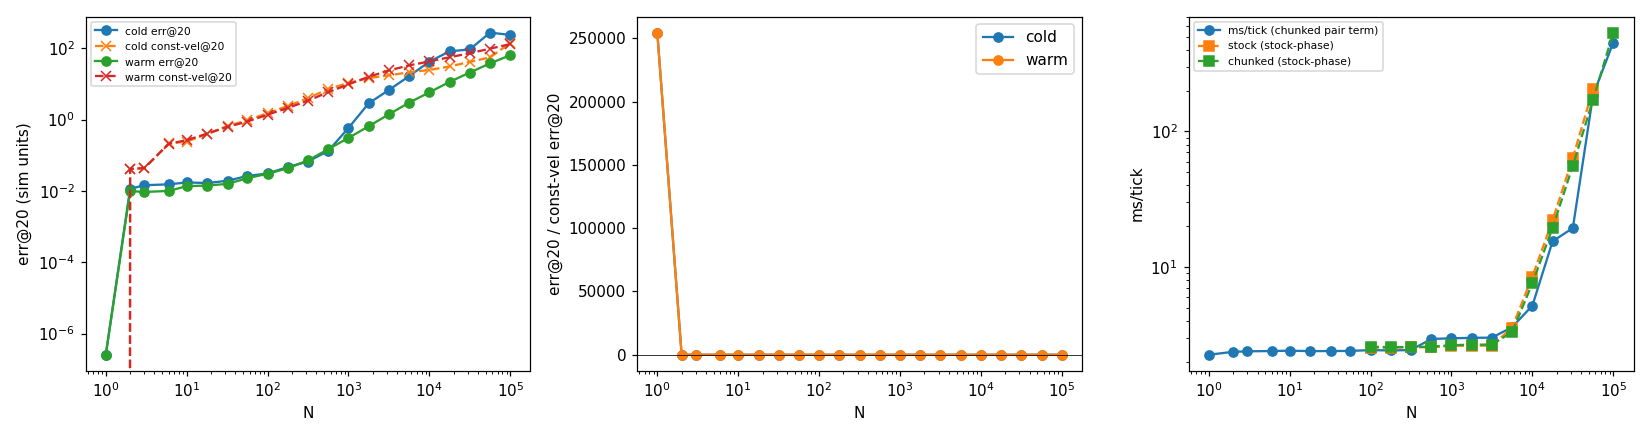
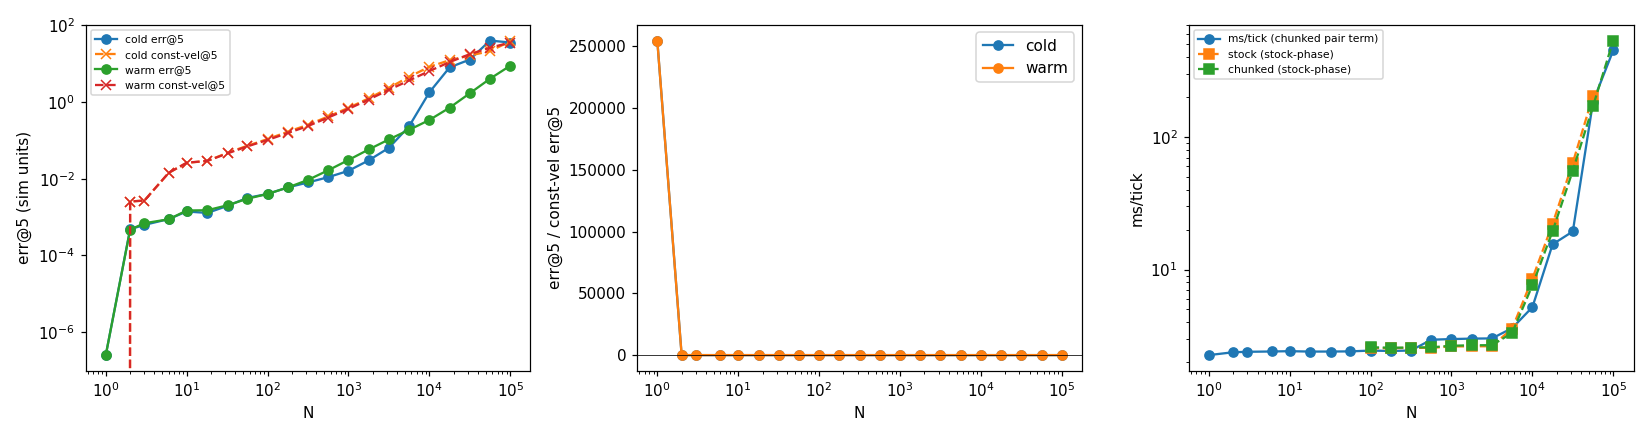
scatter review #4.1/#4.4: zero-shot validity bounds doc; scaling summary headlines err@5 (N=1e5 cold ratio@5 .93 vs err@20 saturated); trainer warmup + loss cap after smoke (job 3361: equivalence OK, eps smoke diverged without them)
Claude-Session: https://claude.ai/code/session_01PWoN5WQPd9nu2ycEN95T7c

diff --git a/scripts/train_scatter_ft.py b/scripts/train_scatter_ft.py
@@ -26,8 +26,8 @@ VAR = "ms_kp_pot_v_g128"
 EPS_SET = (0.1, 0.2, 0.35, 0.5, 1.0, 2.0)
 
 
-def group(name, data, dev, weight, batch, kmax, setup=None):
-    return dict(name=name, t=[t.float() for t in sf.to_tensors(data, dev)], weight=weight, batch=batch, kmax=kmax, setup=setup)
+def group(name, data, dev, weight, batch, kmax, setup=None, cap=True):
+    return dict(name=name, t=[t.float() for t in sf.to_tensors(data, dev)], weight=weight, batch=batch, kmax=kmax, setup=setup, cap=cap)
 
 
 def set_h(grid):
@@ -53,15 +53,15 @@ def build_groups(args, dev, log):
             g.append(dict(first, name=f"base_G{grid}", weight=w, setup=set_h(grid)))
     elif args.fix == "largen":
         g.append(group("base", fd.base(n, s, args.seed, dev), dev, 0.4, args.batch, 99))
-        g.append(group("N1000-2500", fd.large_n(max(24, n // 25), s, args.seed + 7, dev, (1000, 2500)), dev, 0.4, 2, 12))
-        g.append(group("N3000-6000", fd.large_n(max(12, n // 50), s, args.seed + 8, dev, (3000, 6000)), dev, 0.2, 1, 8))
+        g.append(group("N1000-2500", fd.large_n(max(24, n // 25), s, args.seed + 7, dev, (1000, 2500)), dev, 0.4, 2, 12, cap=False))
+        g.append(group("N3000-6000", fd.large_n(max(12, n // 50), s, args.seed + 8, dev, (3000, 6000)), dev, 0.2, 1, 8, cap=False))
     elif args.fix in ("mass", "massnorm"):
         g.append(group("mass0.1-10", fd.mass_spectrum(n, s, args.seed, dev, 0.1, 10.0), dev, 1.0, args.batch, 99))
     elif args.fix == "masswide":
         g.append(group("mass0.01-100", fd.mass_spectrum(n, s, args.seed, dev, 0.01, 100.0), dev, 1.0, args.batch, 99))
     elif args.fix == "eps":
         for e in EPS_SET:
-            g.append(group(f"eps{e}", fd.eps_scenes(max(60, n // len(EPS_SET)), s, args.seed + int(e * 100), dev, e), dev, 1.0, args.batch, 99, set_eps(e)))
+            g.append(group(f"eps{e}", fd.eps_scenes(max(60, n // len(EPS_SET)), s, args.seed + int(e * 100), dev, e), dev, 1.0, args.batch, 10 if e <= 0.2 else 99, set_eps(e)))
     elif args.fix == "dense":
         g.append(group("dense", fd.dense(n, s, args.seed, dev), dev, 1.0, args.batch, 99))
     for x in g:
@@ -97,7 +97,7 @@ def train(model, groups, args, ckpt_path, log):
         P, V, M, mask = grp["t"]
         S, B = P.shape[0], grp["batch"]
         k = min(int(round(args.k_start + (args.k_end - args.k_start) * frac)), grp["kmax"])
-        lr = args.lr * (0.05 + 0.95 * 0.5 * (1 + np.cos(np.pi * frac)))
+        lr = args.lr * (0.05 + 0.95 * 0.5 * (1 + np.cos(np.pi * frac))) * min(1.0, (it - start + 1) / args.warmup)
         for pg in opt.param_groups:
             pg["lr"] = lr
         idx = torch.randint(S, (B,), generator=g).to(args.device)
@@ -118,12 +118,12 @@ def train(model, groups, args, ckpt_path, log):
         opt.zero_grad()
         loss.backward()
         gn = torch.nn.utils.clip_grad_norm_(model.parameters(), 1.0)
-        if torch.isfinite(loss) and torch.isfinite(gn):
+        if torch.isfinite(loss) and torch.isfinite(gn) and (not grp["cap"] or args.loss_cap <= 0 or loss.item() < args.loss_cap):
             opt.step()
         else:
             opt.zero_grad()
             skipped += 1
-            log(f"it {it} non-finite loss/grad, step skipped ({skipped} total)")
+            log(f"it {it} {grp['name']} loss {loss.item():.3g} non-finite or above cap, step skipped ({skipped} total)")
         last.setdefault(grp["name"], []).append(loss.item())
         if it % args.log_every == 0:
             msg = " ".join(f"{k_}:{np.mean(v[-20:]):.5f}" for k_, v in last.items())
@@ -148,6 +148,8 @@ def main():
     ap.add_argument("--k-start", type=int, default=4)
     ap.add_argument("--k-end", type=int, default=20)
     ap.add_argument("--lr", type=float, default=2e-4)
+    ap.add_argument("--warmup", type=int, default=200)
+    ap.add_argument("--loss-cap", type=float, default=3.0)
     ap.add_argument("--time-budget", type=float, default=2400.0)
     ap.add_argument("--log-every", type=int, default=50)
     ap.add_argument("--seed", type=int, default=4738)

diff --git a/scripts/summarize_scatter_scaling.py b/scripts/summarize_scatter_scaling.py
@@ -1,4 +1,5 @@
-"""Markdown tables + plots from results/scatter_scaling_{nsweep,worlds,stock}.json. Usage: python scripts/summarize_scatter_scaling.py [--tag SUFFIX]"""
+"""Markdown tables + plots from results/scatter_scaling_{nsweep,worlds,stock}.json. Usage: python scripts/summarize_scatter_scaling.py [--tag SUFFIX]
+Headline metric is err@5 and err@5/constvel@5 (decision #4.4): err@20 saturates at the box size for N >= ~1e4 (cold) and says nothing at N = 1e5."""
 import argparse
 import json
 
@@ -13,13 +14,13 @@ def row(r):
     t = r.get("timing", {})
     e = r["err"]
     cv = r["constvel"]
-    return (f"| {r['n']} | {r['grid']} | {r['extent']:g} | {r['h']:.3g} | {e['5']:.3g} | {e['10']:.3g} | {e['20']:.3g} | {e['50']:.3g} | {e['100']:.3g} | {e['20'] / max(cv['20'], 1e-12):.2f} | "
+    return (f"| {r['n']} | {r['grid']} | {r['extent']:g} | {r['h']:.3g} | {e['5']:.3g} | {e['10']:.3g} | {e['20']:.3g} | {e['50']:.3g} | {e['100']:.3g} | {e['5'] / max(cv['5'], 1e-12):.2f} | {e['20'] / max(cv['20'], 1e-12):.2f} | "
             f"{r['selfnoise']['20']:.2g} | {r['dE_rel_model']:.3g} ({r['dE_rel_truth']:.2g}) | {r['dP_model']:.2g} | {r['first_nonfinite']} | {r['frac_out_model']:.3f} | "
             f"{t.get('tick_ms', float('nan')):.3g} | {t.get('peak_mem_mb', float('nan')):.0f} |")
 
 
-HEAD = ("| N | G | extent | h | err@5 | @10 | @20 | @50 | @100 | err@20/constvel@20 | self-noise@20 | dE/E (truth) | dP | first nonfinite | frac out | ms/tick | peak MB |\n"
-        "|---|---|---|---|---|---|---|---|---|---|---|---|---|---|---|---|---|")
+HEAD = ("| N | G | extent | h | err@5 | @10 | @20 | @50 | @100 | err@5/constvel@5 | err@20/constvel@20 | self-noise@20 | dE/E (truth) | dP | first nonfinite | frac out | ms/tick | peak MB |\n"
+        "|---|---|---|---|---|---|---|---|---|---|---|---|---|---|---|---|---|---|")
 
 
 def slope(ns, ts):
@@ -39,9 +40,9 @@ def main():
         out.append(f"\n### N sweep, extent 64, G 128, {fam}\n\n{HEAD}")
         out += [row(r) for r in pts if "selfnoise" in r]
         N = np.array([r["n"] for r in pts])
-        ax[0].loglog(N, [r["err"]["20"] for r in pts], "o-", label=f"{fam} err@20")
-        ax[0].loglog(N, [r["constvel"]["20"] for r in pts], "x--", label=f"{fam} const-vel@20")
-        ax[1].semilogx(N, [r["err"]["20"] / max(r["constvel"]["20"], 1e-12) for r in pts], "o-", label=fam)
+        ax[0].loglog(N, [r["err"]["5"] for r in pts], "o-", label=f"{fam} err@5")
+        ax[0].loglog(N, [r["constvel"]["5"] for r in pts], "x--", label=f"{fam} const-vel@5")
+        ax[1].semilogx(N, [r["err"]["5"] / max(r["constvel"]["5"], 1e-12) for r in pts], "o-", label=fam)
         if fam == "cold":
             tt = [(r["n"], r["timing"]["tick_ms"]) for r in pts if "tick_ms" in r.get("timing", {})]
             n_, t_ = zip(*tt)
@@ -49,11 +50,11 @@ def main():
             big = [(a, b) for a, b in tt if a >= 1e4]
             out.append(f"\nlog-log slope of ms/tick vs N: all N {slope(*zip(*tt)):.2f}; N>=1e4 {slope(*zip(*big)):.2f}")
     ax[0].set_xlabel("N")
-    ax[0].set_ylabel("err@20 (sim units)")
+    ax[0].set_ylabel("err@5 (sim units)")
     ax[0].legend(fontsize=7)
     ax[1].axhline(1, color="k", lw=0.5)
     ax[1].set_xlabel("N")
-    ax[1].set_ylabel("err@20 / const-vel err@20")
+    ax[1].set_ylabel("err@5 / const-vel err@5")
     ax[1].legend()
     ax[2].set_xlabel("N")
     ax[2].set_ylabel("ms/tick")

diff --git a/results/scatter_scaling_tables_cell.md b/results/scatter_scaling_tables_cell.md
@@ -1,57 +1,57 @@
 
 ### N sweep, extent 64, G 128, cold
 
-| N | G | extent | h | err@5 | @10 | @20 | @50 | @100 | err@20/constvel@20 | self-noise@20 | dE/E (truth) | dP | first nonfinite | frac out | ms/tick | peak MB |
-|---|---|---|---|---|---|---|---|---|---|---|---|---|---|---|---|---|
-| 1 | 128 | 64 | 0.5 | 2.55e-07 | 2.55e-07 | 2.55e-07 | 2.55e-07 | 2.55e-07 | 254639.51 | 0 | 0 (0) | 0 | None | 0.000 | 2.26 | 33 |
-| 2 | 128 | 64 | 0.5 | 0.000483 | 0.00239 | 0.0114 | 0.0683 | 0.22 | 0.27 | 0 | 0.0291 (8.7e-05) | 1.4e-09 | None | 0.000 | 2.38 | 33 |
-| 3 | 128 | 64 | 0.5 | 0.000626 | 0.00314 | 0.0145 | 0.0724 | 0.259 | 0.33 | 0 | 0.0214 (1.9e-05) | 7.7e-08 | None | 0.000 | 2.4 | 33 |
-| 6 | 128 | 64 | 0.5 | 0.000887 | 0.004 | 0.0153 | 0.0834 | 0.358 | 0.07 | 0 | 0.027 (0.00027) | 2.2e-07 | None | 0.000 | 2.41 | 33 |
-| 10 | 128 | 64 | 0.5 | 0.0014 | 0.00451 | 0.0173 | 0.0781 | 0.331 | 0.07 | 0 | 0.0161 (8.9e-05) | 4e-07 | None | 0.000 | 2.42 | 33 |
-| 18 | 128 | 64 | 0.5 | 0.00128 | 0.00495 | 0.0167 | 0.103 | 0.676 | 0.04 | 3.1e-06 | 0.0168 (0.00011) | 1.1e-06 | None | 0.000 | 2.41 | 33 |
-| 32 | 128 | 64 | 0.5 | 0.00196 | 0.00608 | 0.0193 | 0.136 | 1.11 | 0.03 | 4.8e-06 | 0.0178 (9.6e-05) | 1.8e-06 | None | 0.000 | 2.41 | 33 |
-| 56 | 128 | 64 | 0.5 | 0.00315 | 0.00871 | 0.0263 | 0.194 | 1.74 | 0.03 | 2.3e-05 | 0.0143 (0.00013) | 4.1e-06 | None | 0.000 | 2.41 | 33 |
-| 100 | 128 | 64 | 0.5 | 0.004 | 0.0108 | 0.0309 | 0.296 | 3.25 | 0.02 | 4.9e-05 | 0.0113 (0.00013) | 7.6e-06 | None | 0.000 | 2.45 | 33 |
-| 178 | 128 | 64 | 0.5 | 0.00593 | 0.0156 | 0.0468 | 0.605 | 4.36 | 0.02 | 0.00011 | 0.0142 (0.00015) | 1.8e-05 | None | 0.002 | 2.43 | 33 |
-| 316 | 128 | 64 | 0.5 | 0.00797 | 0.0204 | 0.0669 | 1.2 | 5.46 | 0.02 | 0.00015 | 0.0189 (0.00036) | 3.9e-05 | None | 0.032 | 2.45 | 34 |
-| 562 | 128 | 64 | 0.5 | 0.0109 | 0.0286 | 0.132 | 2.46 | 7.6 | 0.02 | 0.00066 | 0.0319 (0.0007) | 0.00012 | None | 0.068 | 2.96 | 34 |
-| 1000 | 128 | 64 | 0.5 | 0.016 | 0.0464 | 0.583 | 5.08 | 13 | 0.05 | 0.0056 | 0.13 (0.0012) | 0.00031 | None | 0.081 | 2.99 | 59 |
-| 1778 | 128 | 64 | 0.5 | 0.03 | 0.169 | 2.87 | 12.1 | 29.2 | 0.20 | 0.03 | 0.524 (0.0018) | 0.00077 | None | 0.149 | 3.01 | 155 |
-| 3162 | 128 | 64 | 0.5 | 0.0636 | 1.41 | 6.8 | 24.4 | 58.6 | 0.39 | 0.093 | 1.1 (0.0075) | 0.0018 | None | 0.241 | 3.02 | 363 |
-| 5623 | 128 | 64 | 0.5 | 0.232 | 4.91 | 16.6 | 58.7 | 139 | 0.78 | 0.48 | 1.94 (0.024) | 0.0045 | None | 0.432 | 3.61 | 1081 |
-| 10000 | 128 | 64 | 0.5 | 1.77 | 14.5 | 42.3 | 140 | 310 | 1.71 | 3.3 | 3.03 (0.062) | 0.024 | None | 0.699 | 5.2 | 1478 |
-| 17783 | 128 | 64 | 0.5 | 7.91 | 31.1 | 82.5 | 249 | 532 | 2.66 | 9.8 | 3.82 (0.25) | 0.06 | None | 0.865 | 15.5 | 1483 |
-| 31623 | 128 | 64 | 0.5 | 12.7 | 36.9 | 93.1 | 278 | 599 | 2.23 | 32 | 3.45 (0.61) | 0.12 | None | 0.779 | 19.4 | 1486 |
-| 56234 | 128 | 64 | 0.5 | 39.5 | 118 | 276 | 750 | 1.54e+03 | 4.96 | 21 | 7.36 (0.78) | 0.78 | None | 0.998 | 185 | 1484 |
-| 100000 | 128 | 64 | 0.5 | 35.1 | 99.6 | 238 | 661 | 1.37e+03 | 1.68 | 1.1e+02 | 4.49 (1.5) | 0.7 | None | 0.896 | 452 | 1493 |
+| N | G | extent | h | err@5 | @10 | @20 | @50 | @100 | err@5/constvel@5 | err@20/constvel@20 | self-noise@20 | dE/E (truth) | dP | first nonfinite | frac out | ms/tick | peak MB |
+|---|---|---|---|---|---|---|---|---|---|---|---|---|---|---|---|---|---|
+| 1 | 128 | 64 | 0.5 | 2.55e-07 | 2.55e-07 | 2.55e-07 | 2.55e-07 | 2.55e-07 | 254639.51 | 254639.51 | 0 | 0 (0) | 0 | None | 0.000 | 2.26 | 33 |
+| 2 | 128 | 64 | 0.5 | 0.000483 | 0.00239 | 0.0114 | 0.0683 | 0.22 | 0.19 | 0.27 | 0 | 0.0291 (8.7e-05) | 1.4e-09 | None | 0.000 | 2.38 | 33 |
+| 3 | 128 | 64 | 0.5 | 0.000626 | 0.00314 | 0.0145 | 0.0724 | 0.259 | 0.23 | 0.33 | 0 | 0.0214 (1.9e-05) | 7.7e-08 | None | 0.000 | 2.4 | 33 |
+| 6 | 128 | 64 | 0.5 | 0.000887 | 0.004 | 0.0153 | 0.0834 | 0.358 | 0.06 | 0.07 | 0 | 0.027 (0.00027) | 2.2e-07 | None | 0.000 | 2.41 | 33 |
+| 10 | 128 | 64 | 0.5 | 0.0014 | 0.00451 | 0.0173 | 0.0781 | 0.331 | 0.05 | 0.07 | 0 | 0.0161 (8.9e-05) | 4e-07 | None | 0.000 | 2.42 | 33 |
+| 18 | 128 | 64 | 0.5 | 0.00128 | 0.00495 | 0.0167 | 0.103 | 0.676 | 0.04 | 0.04 | 3.1e-06 | 0.0168 (0.00011) | 1.1e-06 | None | 0.000 | 2.41 | 33 |
+| 32 | 128 | 64 | 0.5 | 0.00196 | 0.00608 | 0.0193 | 0.136 | 1.11 | 0.04 | 0.03 | 4.8e-06 | 0.0178 (9.6e-05) | 1.8e-06 | None | 0.000 | 2.41 | 33 |
+| 56 | 128 | 64 | 0.5 | 0.00315 | 0.00871 | 0.0263 | 0.194 | 1.74 | 0.04 | 0.03 | 2.3e-05 | 0.0143 (0.00013) | 4.1e-06 | None | 0.000 | 2.41 | 33 |
+| 100 | 128 | 64 | 0.5 | 0.004 | 0.0108 | 0.0309 | 0.296 | 3.25 | 0.04 | 0.02 | 4.9e-05 | 0.0113 (0.00013) | 7.6e-06 | None | 0.000 | 2.45 | 33 |
+| 178 | 128 | 64 | 0.5 | 0.00593 | 0.0156 | 0.0468 | 0.605 | 4.36 | 0.04 | 0.02 | 0.00011 | 0.0142 (0.00015) | 1.8e-05 | None | 0.002 | 2.43 | 33 |
+| 316 | 128 | 64 | 0.5 | 0.00797 | 0.0204 | 0.0669 | 1.2 | 5.46 | 0.03 | 0.02 | 0.00015 | 0.0189 (0.00036) | 3.9e-05 | None | 0.032 | 2.45 | 34 |
+| 562 | 128 | 64 | 0.5 | 0.0109 | 0.0286 | 0.132 | 2.46 | 7.6 | 0.03 | 0.02 | 0.00066 | 0.0319 (0.0007) | 0.00012 | None | 0.068 | 2.96 | 34 |
+| 1000 | 128 | 64 | 0.5 | 0.016 | 0.0464 | 0.583 | 5.08 | 13 | 0.02 | 0.05 | 0.0056 | 0.13 (0.0012) | 0.00031 | None | 0.081 | 2.99 | 59 |
+| 1778 | 128 | 64 | 0.5 | 0.03 | 0.169 | 2.87 | 12.1 | 29.2 | 0.02 | 0.20 | 0.03 | 0.524 (0.0018) | 0.00077 | None | 0.149 | 3.01 | 155 |
+| 3162 | 128 | 64 | 0.5 | 0.0636 | 1.41 | 6.8 | 24.4 | 58.6 | 0.03 | 0.39 | 0.093 | 1.1 (0.0075) | 0.0018 | None | 0.241 | 3.02 | 363 |
+| 5623 | 128 | 64 | 0.5 | 0.232 | 4.91 | 16.6 | 58.7 | 139 | 0.05 | 0.78 | 0.48 | 1.94 (0.024) | 0.0045 | None | 0.432 | 3.61 | 1081 |
+| 10000 | 128 | 64 | 0.5 | 1.77 | 14.5 | 42.3 | 140 | 310 | 0.22 | 1.71 | 3.3 | 3.03 (0.062) | 0.024 | None | 0.699 | 5.2 | 1478 |
+| 17783 | 128 | 64 | 0.5 | 7.91 | 31.1 | 82.5 | 249 | 532 | 0.65 | 2.66 | 9.8 | 3.82 (0.25) | 0.06 | None | 0.865 | 15.5 | 1483 |
+| 31623 | 128 | 64 | 0.5 | 12.7 | 36.9 | 93.1 | 278 | 599 | 0.78 | 2.23 | 32 | 3.45 (0.61) | 0.12 | None | 0.779 | 19.4 | 1486 |
+| 56234 | 128 | 64 | 0.5 | 39.5 | 118 | 276 | 750 | 1.54e+03 | 1.89 | 4.96 | 21 | 7.36 (0.78) | 0.78 | None | 0.998 | 185 | 1484 |
+| 100000 | 128 | 64 | 0.5 | 35.1 | 99.6 | 238 | 661 | 1.37e+03 | 0.93 | 1.68 | 1.1e+02 | 4.49 (1.5) | 0.7 | None | 0.896 | 452 | 1493 |
 
 log-log slope of ms/tick vs N: all N 0.30; N>=1e4 1.98
 
 ### N sweep, extent 64, G 128, warm
 
-| N | G | extent | h | err@5 | @10 | @20 | @50 | @100 | err@20/constvel@20 | self-noise@20 | dE/E (truth) | dP | first nonfinite | frac out | ms/tick | peak MB |
-|---|---|---|---|---|---|---|---|---|---|---|---|---|---|---|---|---|
-| 1 | 128 | 64 | 0.5 | 2.55e-07 | 2.55e-07 | 2.55e-07 | 2.55e-07 | 2.55e-07 | 254639.51 | 0 | 0 (0) | 0 | None | 0.000 | 2.25 | 33 |
-| 2 | 128 | 64 | 0.5 | 0.000471 | 0.00257 | 0.00994 | 0.0469 | 0.154 | 0.24 | 0 | 0.0772 (5.9e-05) | 1.7e-09 | None | 0.000 | 2.38 | 33 |
-| 3 | 128 | 64 | 0.5 | 0.000693 | 0.00299 | 0.00935 | 0.0397 | 0.134 | 0.21 | 0 | 0.0484 (1.4e-05) | 1.4e-07 | None | 0.000 | 2.38 | 33 |
-| 6 | 128 | 64 | 0.5 | 0.000877 | 0.00318 | 0.01 | 0.0499 | 0.235 | 0.05 | 0 | 0.0766 (2.8e-05) | 3.6e-07 | None | 0.000 | 2.4 | 33 |
-| 10 | 128 | 64 | 0.5 | 0.00148 | 0.00448 | 0.0136 | 0.0654 | 0.281 | 0.05 | 0 | 0.133 (6.5e-05) | 6.4e-07 | None | 0.000 | 2.39 | 33 |
-| 18 | 128 | 64 | 0.5 | 0.00151 | 0.00436 | 0.0142 | 0.0833 | 0.474 | 0.03 | 0 | 0.0868 (7.6e-05) | 1.1e-06 | None | 0.000 | 2.41 | 33 |
-| 32 | 128 | 64 | 0.5 | 0.00203 | 0.00543 | 0.0158 | 0.0882 | 0.612 | 0.03 | 1.7e-06 | 0.0294 (5e-05) | 2.1e-06 | None | 0.000 | 2.4 | 33 |
-| 56 | 128 | 64 | 0.5 | 0.003 | 0.00757 | 0.0227 | 0.153 | 1.09 | 0.03 | 7.3e-06 | 0.0329 (7.9e-05) | 3.4e-06 | None | 0.017 | 2.39 | 33 |
-| 100 | 128 | 64 | 0.5 | 0.00401 | 0.0104 | 0.0303 | 0.197 | 1.82 | 0.02 | 2.2e-05 | 0.00761 (5.6e-05) | 6.7e-06 | None | 0.041 | 2.44 | 33 |
-| 178 | 128 | 64 | 0.5 | 0.0059 | 0.015 | 0.0432 | 0.328 | 2.7 | 0.02 | 8.6e-05 | 0.0194 (4.4e-05) | 8e-06 | None | 0.074 | 2.43 | 33 |
-| 316 | 128 | 64 | 0.5 | 0.00929 | 0.0239 | 0.0718 | 0.6 | 4.02 | 0.02 | 0.00013 | 0.0561 (4.9e-05) | 1.6e-05 | None | 0.105 | 2.44 | 34 |
-| 562 | 128 | 64 | 0.5 | 0.0165 | 0.0449 | 0.148 | 1.41 | 7.05 | 0.03 | 0.00021 | 0.165 (9.5e-05) | 3.6e-05 | None | 0.108 | 2.92 | 34 |
-| 1000 | 128 | 64 | 0.5 | 0.0307 | 0.087 | 0.307 | 2.87 | 11.6 | 0.03 | 0.00035 | 0.233 (0.00019) | 9.3e-05 | None | 0.097 | 2.94 | 35 |
-| 1778 | 128 | 64 | 0.5 | 0.0576 | 0.167 | 0.652 | 5.66 | 18.8 | 0.04 | 0.0013 | 0.331 (0.00028) | 0.00025 | None | 0.095 | 2.95 | 41 |
-| 3162 | 128 | 64 | 0.5 | 0.105 | 0.325 | 1.41 | 10.3 | 27.3 | 0.06 | 0.017 | 0.461 (0.00059) | 0.001 | None | 0.102 | 2.94 | 92 |
-| 5623 | 128 | 64 | 0.5 | 0.187 | 0.642 | 2.99 | 17.5 | 39.4 | 0.09 | 0.086 | 0.681 (0.0018) | 0.0027 | None | 0.111 | 3.07 | 261 |
-| 10000 | 128 | 64 | 0.5 | 0.338 | 1.3 | 5.83 | 27.1 | 59.9 | 0.14 | 0.3 | 1.08 (0.0043) | 0.0092 | None | 0.126 | 3.57 | 666 |
-| 17783 | 128 | 64 | 0.5 | 0.705 | 2.92 | 11.4 | 43.6 | 97.4 | 0.20 | 1.4 | 1.74 (0.0096) | 0.022 | None | 0.147 | 6.27 | 1236 |
-| 31623 | 128 | 64 | 0.5 | 1.67 | 6.2 | 20.9 | 68.9 | 159 | 0.29 | 4.1 | 2.81 (0.015) | 0.037 | None | 0.176 | 14.3 | 1488 |
-| 56234 | 128 | 64 | 0.5 | 4.01 | 13.4 | 37.9 | 120 | 304 | 0.39 | 10 | 5.69 (0.022) | 0.033 | None | 0.257 | 33.8 | 1490 |
-| 100000 | 128 | 64 | 0.5 | 8.76 | 25.8 | 64.2 | 233 | 629 | 0.49 | 29 | 10.4 (0.028) | 0.77 | None | 0.391 | 94.5 | 1496 |
+| N | G | extent | h | err@5 | @10 | @20 | @50 | @100 | err@5/constvel@5 | err@20/constvel@20 | self-noise@20 | dE/E (truth) | dP | first nonfinite | frac out | ms/tick | peak MB |
+|---|---|---|---|---|---|---|---|---|---|---|---|---|---|---|---|---|---|
+| 1 | 128 | 64 | 0.5 | 2.55e-07 | 2.55e-07 | 2.55e-07 | 2.55e-07 | 2.55e-07 | 254639.51 | 254639.51 | 0 | 0 (0) | 0 | None | 0.000 | 2.25 | 33 |
+| 2 | 128 | 64 | 0.5 | 0.000471 | 0.00257 | 0.00994 | 0.0469 | 0.154 | 0.18 | 0.24 | 0 | 0.0772 (5.9e-05) | 1.7e-09 | None | 0.000 | 2.38 | 33 |
+| 3 | 128 | 64 | 0.5 | 0.000693 | 0.00299 | 0.00935 | 0.0397 | 0.134 | 0.26 | 0.21 | 0 | 0.0484 (1.4e-05) | 1.4e-07 | None | 0.000 | 2.38 | 33 |
+| 6 | 128 | 64 | 0.5 | 0.000877 | 0.00318 | 0.01 | 0.0499 | 0.235 | 0.06 | 0.05 | 0 | 0.0766 (2.8e-05) | 3.6e-07 | None | 0.000 | 2.4 | 33 |
+| 10 | 128 | 64 | 0.5 | 0.00148 | 0.00448 | 0.0136 | 0.0654 | 0.281 | 0.06 | 0.05 | 0 | 0.133 (6.5e-05) | 6.4e-07 | None | 0.000 | 2.39 | 33 |
+| 18 | 128 | 64 | 0.5 | 0.00151 | 0.00436 | 0.0142 | 0.0833 | 0.474 | 0.05 | 0.03 | 0 | 0.0868 (7.6e-05) | 1.1e-06 | None | 0.000 | 2.41 | 33 |
+| 32 | 128 | 64 | 0.5 | 0.00203 | 0.00543 | 0.0158 | 0.0882 | 0.612 | 0.04 | 0.03 | 1.7e-06 | 0.0294 (5e-05) | 2.1e-06 | None | 0.000 | 2.4 | 33 |
+| 56 | 128 | 64 | 0.5 | 0.003 | 0.00757 | 0.0227 | 0.153 | 1.09 | 0.04 | 0.03 | 7.3e-06 | 0.0329 (7.9e-05) | 3.4e-06 | None | 0.017 | 2.39 | 33 |
+| 100 | 128 | 64 | 0.5 | 0.00401 | 0.0104 | 0.0303 | 0.197 | 1.82 | 0.04 | 0.02 | 2.2e-05 | 0.00761 (5.6e-05) | 6.7e-06 | None | 0.041 | 2.44 | 33 |
+| 178 | 128 | 64 | 0.5 | 0.0059 | 0.015 | 0.0432 | 0.328 | 2.7 | 0.04 | 0.02 | 8.6e-05 | 0.0194 (4.4e-05) | 8e-06 | None | 0.074 | 2.43 | 33 |
+| 316 | 128 | 64 | 0.5 | 0.00929 | 0.0239 | 0.0718 | 0.6 | 4.02 | 0.04 | 0.02 | 0.00013 | 0.0561 (4.9e-05) | 1.6e-05 | None | 0.105 | 2.44 | 34 |
+| 562 | 128 | 64 | 0.5 | 0.0165 | 0.0449 | 0.148 | 1.41 | 7.05 | 0.04 | 0.03 | 0.00021 | 0.165 (9.5e-05) | 3.6e-05 | None | 0.108 | 2.92 | 34 |
+| 1000 | 128 | 64 | 0.5 | 0.0307 | 0.087 | 0.307 | 2.87 | 11.6 | 0.05 | 0.03 | 0.00035 | 0.233 (0.00019) | 9.3e-05 | None | 0.097 | 2.94 | 35 |
+| 1778 | 128 | 64 | 0.5 | 0.0576 | 0.167 | 0.652 | 5.66 | 18.8 | 0.05 | 0.04 | 0.0013 | 0.331 (0.00028) | 0.00025 | None | 0.095 | 2.95 | 41 |
+| 3162 | 128 | 64 | 0.5 | 0.105 | 0.325 | 1.41 | 10.3 | 27.3 | 0.05 | 0.06 | 0.017 | 0.461 (0.00059) | 0.001 | None | 0.102 | 2.94 | 92 |
+| 5623 | 128 | 64 | 0.5 | 0.187 | 0.642 | 2.99 | 17.5 | 39.4 | 0.05 | 0.09 | 0.086 | 0.681 (0.0018) | 0.0027 | None | 0.111 | 3.07 | 261 |
+| 10000 | 128 | 64 | 0.5 | 0.338 | 1.3 | 5.83 | 27.1 | 59.9 | 0.05 | 0.14 | 0.3 | 1.08 (0.0043) | 0.0092 | None | 0.126 | 3.57 | 666 |
+| 17783 | 128 | 64 | 0.5 | 0.705 | 2.92 | 11.4 | 43.6 | 97.4 | 0.06 | 0.20 | 1.4 | 1.74 (0.0096) | 0.022 | None | 0.147 | 6.27 | 1236 |
+| 31623 | 128 | 64 | 0.5 | 1.67 | 6.2 | 20.9 | 68.9 | 159 | 0.10 | 0.29 | 4.1 | 2.81 (0.015) | 0.037 | None | 0.176 | 14.3 | 1488 |
+| 56234 | 128 | 64 | 0.5 | 4.01 | 13.4 | 37.9 | 120 | 304 | 0.16 | 0.39 | 10 | 5.69 (0.022) | 0.033 | None | 0.257 | 33.8 | 1490 |
+| 100000 | 128 | 64 | 0.5 | 8.76 | 25.8 | 64.2 | 233 | 629 | 0.25 | 0.49 | 29 | 10.4 (0.028) | 0.77 | None | 0.391 | 94.5 | 1496 |
 
 ### Stock vs chunked pair term (B=1, clipped-gaussian cold scene, ticks 20/5)
 
@@ -73,55 +73,55 @@ log-log slope of ms/tick vs N: all N 0.30; N>=1e4 1.98
 
 ### R: resolution only (N 300, scene fixed, extent 64)
 
-| N | G | extent | h | err@5 | @10 | @20 | @50 | @100 | err@20/constvel@20 | self-noise@20 | dE/E (truth) | dP | first nonfinite | frac out | ms/tick | peak MB |
-|---|---|---|---|---|---|---|---|---|---|---|---|---|---|---|---|---|
-| 300 | 32 | 64 | 2 | 0.128 | 0.513 | 1.79 | 4.88 | 8.52 | 0.46 | 6.4e-06 | 0.319 (0.00042) | 1.9e-05 | None | 0.001 | 2.46 | 4 |
-| 300 | 64 | 64 | 1 | 0.0929 | 0.362 | 1.12 | 3.67 | 7.49 | 0.29 | 1.2e-05 | 0.179 (0.00042) | 2.4e-05 | None | 0.016 | 2.47 | 9 |
-| 300 | 128 | 64 | 0.5 | 0.00756 | 0.0197 | 0.0633 | 1.17 | 5.28 | 0.02 | 0.00014 | 0.0205 (0.00042) | 2.7e-05 | None | 0.033 | 2.47 | 34 |
-| 300 | 256 | 64 | 0.25 | 0.227 | 0.568 | 1.93 | 11.8 | 44 | 0.50 | 0.008 | 2.86 (0.00042) | 5.3e-05 | None | 0.829 | 2.47 | 133 |
-| 300 | 512 | 64 | 0.125 | 0.858 | 2.85 | 7.9 | 28.8 | 76.9 | 2.04 | 0 | 52 (0.00042) | 0.00013 | None | 0.548 | 3.4 | 529 |
+| N | G | extent | h | err@5 | @10 | @20 | @50 | @100 | err@5/constvel@5 | err@20/constvel@20 | self-noise@20 | dE/E (truth) | dP | first nonfinite | frac out | ms/tick | peak MB |
+|---|---|---|---|---|---|---|---|---|---|---|---|---|---|---|---|---|---|
+| 300 | 32 | 64 | 2 | 0.128 | 0.513 | 1.79 | 4.88 | 8.52 | 0.52 | 0.46 | 6.4e-06 | 0.319 (0.00042) | 1.9e-05 | None | 0.001 | 2.46 | 4 |
+| 300 | 64 | 64 | 1 | 0.0929 | 0.362 | 1.12 | 3.67 | 7.49 | 0.38 | 0.29 | 1.2e-05 | 0.179 (0.00042) | 2.4e-05 | None | 0.016 | 2.47 | 9 |
+| 300 | 128 | 64 | 0.5 | 0.00756 | 0.0197 | 0.0633 | 1.17 | 5.28 | 0.03 | 0.02 | 0.00014 | 0.0205 (0.00042) | 2.7e-05 | None | 0.033 | 2.47 | 34 |
+| 300 | 256 | 64 | 0.25 | 0.227 | 0.568 | 1.93 | 11.8 | 44 | 0.93 | 0.50 | 0.008 | 2.86 (0.00042) | 5.3e-05 | None | 0.829 | 2.47 | 133 |
+| 300 | 512 | 64 | 0.125 | 0.858 | 2.85 | 7.9 | 28.8 | 76.9 | 3.50 | 2.04 | 0 | 52 (0.00042) | 0.00013 | None | 0.548 | 3.4 | 529 |
 
 ### D: domain only (h 0.5, scene fixed, N 300)
 
-| N | G | extent | h | err@5 | @10 | @20 | @50 | @100 | err@20/constvel@20 | self-noise@20 | dE/E (truth) | dP | first nonfinite | frac out | ms/tick | peak MB |
-|---|---|---|---|---|---|---|---|---|---|---|---|---|---|---|---|---|
-| 300 | 64 | 32 | 0.5 | 0.0271 | 0.0834 | 0.287 | 2.59 | 8.67 | 0.07 | 4.4e-05 | 0.0908 (0.00032) | 3.9e-05 | None | 0.191 | 2.47 | 9 |
-| 300 | 96 | 48 | 0.5 | 0.00844 | 0.0224 | 0.0711 | 1.2 | 5.43 | 0.02 | 3.6e-05 | 0.0186 (0.00038) | 3.2e-05 | None | 0.091 | 2.46 | 19 |
-| 300 | 128 | 64 | 0.5 | 0.00756 | 0.0197 | 0.0633 | 1.17 | 5.29 | 0.02 | 0.00014 | 0.0227 (0.00042) | 3.5e-05 | None | 0.032 | 2.46 | 34 |
-| 300 | 192 | 96 | 0.5 | 0.00755 | 0.0197 | 0.0631 | 1.17 | 5.25 | 0.02 | 0.00044 | 0.0198 (0.00041) | 3.3e-05 | None | 0.002 | 2.47 | 75 |
-| 300 | 256 | 128 | 0.5 | 0.00755 | 0.0197 | 0.0631 | 1.17 | 5.26 | 0.02 | 0.00048 | 0.0253 (0.00041) | 3.3e-05 | None | 0.000 | 2.47 | 133 |
-| 300 | 512 | 256 | 0.5 | 0.00755 | 0.0197 | 0.0631 | 1.17 | 5.29 | 0.02 | 0.00048 | 0.024 (0.00041) | 3.5e-05 | None | 0.000 | 3.39 | 529 |
-| 300 | 1024 | 512 | 0.5 | 0.00755 | 0.0197 | 0.0631 | 1.17 | 5.28 | 0.02 | 0.00057 | 0.0188 (0.00041) | 2.7e-05 | None | 0.000 | 9.56 | 2116 |
+| N | G | extent | h | err@5 | @10 | @20 | @50 | @100 | err@5/constvel@5 | err@20/constvel@20 | self-noise@20 | dE/E (truth) | dP | first nonfinite | frac out | ms/tick | peak MB |
+|---|---|---|---|---|---|---|---|---|---|---|---|---|---|---|---|---|---|
+| 300 | 64 | 32 | 0.5 | 0.0271 | 0.0834 | 0.287 | 2.59 | 8.67 | 0.11 | 0.07 | 4.4e-05 | 0.0908 (0.00032) | 3.9e-05 | None | 0.191 | 2.47 | 9 |
+| 300 | 96 | 48 | 0.5 | 0.00844 | 0.0224 | 0.0711 | 1.2 | 5.43 | 0.03 | 0.02 | 3.6e-05 | 0.0186 (0.00038) | 3.2e-05 | None | 0.091 | 2.46 | 19 |
+| 300 | 128 | 64 | 0.5 | 0.00756 | 0.0197 | 0.0633 | 1.17 | 5.29 | 0.03 | 0.02 | 0.00014 | 0.0227 (0.00042) | 3.5e-05 | None | 0.032 | 2.46 | 34 |
+| 300 | 192 | 96 | 0.5 | 0.00755 | 0.0197 | 0.0631 | 1.17 | 5.25 | 0.03 | 0.02 | 0.00044 | 0.0198 (0.00041) | 3.3e-05 | None | 0.002 | 2.47 | 75 |
+| 300 | 256 | 128 | 0.5 | 0.00755 | 0.0197 | 0.0631 | 1.17 | 5.26 | 0.03 | 0.02 | 0.00048 | 0.0253 (0.00041) | 3.3e-05 | None | 0.000 | 2.47 | 133 |
+| 300 | 512 | 256 | 0.5 | 0.00755 | 0.0197 | 0.0631 | 1.17 | 5.29 | 0.03 | 0.02 | 0.00048 | 0.024 (0.00041) | 3.5e-05 | None | 0.000 | 3.39 | 529 |
+| 300 | 1024 | 512 | 0.5 | 0.00755 | 0.0197 | 0.0631 | 1.17 | 5.28 | 0.03 | 0.02 | 0.00057 | 0.0188 (0.00041) | 2.7e-05 | None | 0.000 | 9.56 | 2116 |
 
 ### S: scene scaled with box, G 128 (h varies)
 
-| N | G | extent | h | err@5 | @10 | @20 | @50 | @100 | err@20/constvel@20 | self-noise@20 | dE/E (truth) | dP | first nonfinite | frac out | ms/tick | peak MB |
-|---|---|---|---|---|---|---|---|---|---|---|---|---|---|---|---|---|
-| 300 | 128 | 16 | 0.125 | 3.36 | 10.5 | 33 | 109 | 240 | 4.87 | 29 | 22.1 (0.0013) | 0.00034 | None | 0.990 | 2.46 | 34 |
-| 300 | 128 | 32 | 0.25 | 0.534 | 1.3 | 4.89 | 19.3 | 49 | 0.64 | 0.72 | 1.74 (0.00087) | 9.2e-05 | None | 0.949 | 2.46 | 34 |
-| 300 | 128 | 64 | 0.5 | 0.00756 | 0.0197 | 0.0633 | 1.17 | 5.3 | 0.02 | 0.00013 | 0.0224 (0.00042) | 3.9e-05 | None | 0.033 | 2.44 | 34 |
-| 300 | 128 | 128 | 1 | 0.0378 | 0.144 | 0.468 | 1.56 | 4.2 | 0.39 | 2.7e-05 | 0.214 (0.00015) | 1.8e-05 | None | 0.001 | 2.46 | 34 |
-| 300 | 128 | 256 | 2 | 0.0294 | 0.116 | 0.43 | 2.05 | 6.85 | 0.96 | 9.9e-06 | 0.173 (7.3e-06) | 4.8e-06 | None | 0.004 | 2.44 | 34 |
-| 300 | 128 | 512 | 4 | 0.0687 | 0.275 | 1.09 | 6.81 | 28.2 | 6.91 | 3.5e-06 | 11.5 (2.2e-06) | 1.5e-05 | None | 0.000 | 2.45 | 34 |
+| N | G | extent | h | err@5 | @10 | @20 | @50 | @100 | err@5/constvel@5 | err@20/constvel@20 | self-noise@20 | dE/E (truth) | dP | first nonfinite | frac out | ms/tick | peak MB |
+|---|---|---|---|---|---|---|---|---|---|---|---|---|---|---|---|---|---|
+| 300 | 128 | 16 | 0.125 | 3.36 | 10.5 | 33 | 109 | 240 | 1.16 | 4.87 | 29 | 22.1 (0.0013) | 0.00034 | None | 0.990 | 2.46 | 34 |
+| 300 | 128 | 32 | 0.25 | 0.534 | 1.3 | 4.89 | 19.3 | 49 | 0.66 | 0.64 | 0.72 | 1.74 (0.00087) | 9.2e-05 | None | 0.949 | 2.46 | 34 |
+| 300 | 128 | 64 | 0.5 | 0.00756 | 0.0197 | 0.0633 | 1.17 | 5.3 | 0.03 | 0.02 | 0.00013 | 0.0224 (0.00042) | 3.9e-05 | None | 0.033 | 2.44 | 34 |
+| 300 | 128 | 128 | 1 | 0.0378 | 0.144 | 0.468 | 1.56 | 4.2 | 0.43 | 0.39 | 2.7e-05 | 0.214 (0.00015) | 1.8e-05 | None | 0.001 | 2.46 | 34 |
+| 300 | 128 | 256 | 2 | 0.0294 | 0.116 | 0.43 | 2.05 | 6.85 | 0.92 | 0.96 | 9.9e-06 | 0.173 (7.3e-06) | 4.8e-06 | None | 0.004 | 2.44 | 34 |
+| 300 | 128 | 512 | 4 | 0.0687 | 0.275 | 1.09 | 6.81 | 28.2 | 6.23 | 6.91 | 3.5e-06 | 11.5 (2.2e-06) | 1.5e-05 | None | 0.000 | 2.45 | 34 |
 
 ### S2: scene scaled with box, h 0.5, N 300
 
-| N | G | extent | h | err@5 | @10 | @20 | @50 | @100 | err@20/constvel@20 | self-noise@20 | dE/E (truth) | dP | first nonfinite | frac out | ms/tick | peak MB |
-|---|---|---|---|---|---|---|---|---|---|---|---|---|---|---|---|---|
-| 300 | 64 | 32 | 0.5 | 0.0188 | 0.0816 | 0.569 | 3.39 | 7.28 | 0.07 | 0.0016 | 0.0663 (0.00087) | 7.8e-05 | None | 0.123 | 2.45 | 9 |
-| 300 | 128 | 64 | 0.5 | 0.00756 | 0.0197 | 0.0633 | 1.17 | 5.27 | 0.02 | 0.00012 | 0.025 (0.00042) | 4.1e-05 | None | 0.032 | 2.46 | 34 |
-| 300 | 256 | 128 | 0.5 | 0.00345 | 0.00982 | 0.0301 | 0.237 | 2.5 | 0.02 | 0.00011 | 0.0137 (0.00015) | 1.6e-05 | None | 0.000 | 2.49 | 133 |
-| 300 | 512 | 256 | 0.5 | 0.0136 | 0.0537 | 0.214 | 1.35 | 5.77 | 0.48 | 1e-05 | 0.229 (7.3e-06) | 4.6e-06 | None | 0.004 | 3.39 | 529 |
-| 300 | 1024 | 512 | 0.5 | 0.066 | 0.265 | 1.06 | 6.76 | 28.5 | 6.74 | 0 | 12.1 (2.2e-06) | 1.6e-05 | None | 0.005 | 9.56 | 2116 |
+| N | G | extent | h | err@5 | @10 | @20 | @50 | @100 | err@5/constvel@5 | err@20/constvel@20 | self-noise@20 | dE/E (truth) | dP | first nonfinite | frac out | ms/tick | peak MB |
+|---|---|---|---|---|---|---|---|---|---|---|---|---|---|---|---|---|---|
+| 300 | 64 | 32 | 0.5 | 0.0188 | 0.0816 | 0.569 | 3.39 | 7.28 | 0.02 | 0.07 | 0.0016 | 0.0663 (0.00087) | 7.8e-05 | None | 0.123 | 2.45 | 9 |
+| 300 | 128 | 64 | 0.5 | 0.00756 | 0.0197 | 0.0633 | 1.17 | 5.27 | 0.03 | 0.02 | 0.00012 | 0.025 (0.00042) | 4.1e-05 | None | 0.032 | 2.46 | 34 |
+| 300 | 256 | 128 | 0.5 | 0.00345 | 0.00982 | 0.0301 | 0.237 | 2.5 | 0.04 | 0.02 | 0.00011 | 0.0137 (0.00015) | 1.6e-05 | None | 0.000 | 2.49 | 133 |
+| 300 | 512 | 256 | 0.5 | 0.0136 | 0.0537 | 0.214 | 1.35 | 5.77 | 0.42 | 0.48 | 1e-05 | 0.229 (7.3e-06) | 4.6e-06 | None | 0.004 | 3.39 | 529 |
+| 300 | 1024 | 512 | 0.5 | 0.066 | 0.265 | 1.06 | 6.76 | 28.5 | 5.98 | 6.74 | 0 | 12.1 (2.2e-06) | 1.6e-05 | None | 0.005 | 9.56 | 2116 |
 
 ### J: joint constant density (h 0.5, N 300 (L/64)^2)
 
-| N | G | extent | h | err@5 | @10 | @20 | @50 | @100 | err@20/constvel@20 | self-noise@20 | dE/E (truth) | dP | first nonfinite | frac out | ms/tick | peak MB |
-|---|---|---|---|---|---|---|---|---|---|---|---|---|---|---|---|---|
-| 19 | 32 | 16 | 0.5 | 0.0104 | 0.0302 | 0.0844 | 0.646 | 2.65 | 0.03 | 2.5e-05 | 0.0197 (0.00012) | 2.3e-06 | None | 0.000 | 2.45 | 2 |
-| 75 | 64 | 32 | 0.5 | 0.00835 | 0.0212 | 0.0627 | 0.811 | 3.56 | 0.02 | 3.5e-05 | 0.0187 (0.0002) | 1.1e-05 | None | 0.030 | 2.44 | 8 |
-| 300 | 128 | 64 | 0.5 | 0.00756 | 0.0197 | 0.0633 | 1.17 | 5.3 | 0.02 | 0.00014 | 0.0208 (0.00042) | 2.7e-05 | None | 0.032 | 2.45 | 34 |
-| 1200 | 256 | 128 | 0.5 | 0.00804 | 0.0224 | 0.0738 | 1.21 | 7.53 | 0.02 | 0.00067 | 0.0516 (0.00068) | 0.00018 | None | 0.000 | 3.01 | 134 |
-| 4800 | 512 | 256 | 0.5 | 0.213 | 0.856 | 3.53 | 27.8 | 93 | 0.93 | 0.0011 | 2.85 (0.00096) | 0.0016 | None | 0.241 | 4.5 | 535 |
-| 19200 | 1024 | 512 | 0.5 | 4.26 | 17.6 | 78.8 | 550 | 1.54e+03 | 21.51 | 0.97 | 363 (0.0022) | 0.15 | None | 0.974 | 11.1 | 2118 |
-| 76800 | 2048 | 1024 | 0.5 | 30.5 | 127 | 592 | 2.73e+03 | 6.41e+03 | 165.62 | 1.5e+02 | 7.09e+03 (0.0016) | 5 | None | 0.994 | 40.9 | 8466 |
+| N | G | extent | h | err@5 | @10 | @20 | @50 | @100 | err@5/constvel@5 | err@20/constvel@20 | self-noise@20 | dE/E (truth) | dP | first nonfinite | frac out | ms/tick | peak MB |
+|---|---|---|---|---|---|---|---|---|---|---|---|---|---|---|---|---|---|
+| 19 | 32 | 16 | 0.5 | 0.0104 | 0.0302 | 0.0844 | 0.646 | 2.65 | 0.05 | 0.03 | 2.5e-05 | 0.0197 (0.00012) | 2.3e-06 | None | 0.000 | 2.45 | 2 |
+| 75 | 64 | 32 | 0.5 | 0.00835 | 0.0212 | 0.0627 | 0.811 | 3.56 | 0.04 | 0.02 | 3.5e-05 | 0.0187 (0.0002) | 1.1e-05 | None | 0.030 | 2.44 | 8 |
+| 300 | 128 | 64 | 0.5 | 0.00756 | 0.0197 | 0.0633 | 1.17 | 5.3 | 0.03 | 0.02 | 0.00014 | 0.0208 (0.00042) | 2.7e-05 | None | 0.032 | 2.45 | 34 |
+| 1200 | 256 | 128 | 0.5 | 0.00804 | 0.0224 | 0.0738 | 1.21 | 7.53 | 0.03 | 0.02 | 0.00067 | 0.0516 (0.00068) | 0.00018 | None | 0.000 | 3.01 | 134 |
+| 4800 | 512 | 256 | 0.5 | 0.213 | 0.856 | 3.53 | 27.8 | 93 | 0.86 | 0.93 | 0.0011 | 2.85 (0.00096) | 0.0016 | None | 0.241 | 4.5 | 535 |
+| 19200 | 1024 | 512 | 0.5 | 4.26 | 17.6 | 78.8 | 550 | 1.54e+03 | 17.51 | 21.51 | 0.97 | 363 (0.0022) | 0.15 | None | 0.974 | 11.1 | 2118 |
+| 76800 | 2048 | 1024 | 0.5 | 30.5 | 127 | 592 | 2.73e+03 | 6.41e+03 | 127.68 | 165.62 | 1.5e+02 | 7.09e+03 (0.0016) | 5 | None | 0.994 | 40.9 | 8466 |

diff --git a/docs/debugging/scatter-scaling.md b/docs/debugging/scatter-scaling.md
@@ -109,3 +109,22 @@ Reference: smooth blob collapses to a very bright compact core with a faint spec
 - Zero-shot N scaling holds to ~1e3 (collapse) or ~5e3 (warm) bodies per 64-unit box. Beyond that needs training on dense/large clusters (scene agent) or an N-aware input normalisation; not tested here (no fine-tune).
 - World rescaling is free only at fixed cell size 0.5 and scenes up to ~16-32 units wide; otherwise retrain or make the kernel/pair terms scale-free (express r in cell units, train with random h; test kmlp extrapolation at r>40).
 - Agent 1: make the cell-list pair term density-adaptive.
+
+## Zero-shot validity bounds of Exp E (decision #4.1)
+
+For the frozen Exp E checkpoint (`ms_kp_pot_v_g128`: G 128, extent 64, h 0.5, eps 0.5, unit masses, trained N 10-200 box + cold clusters to N 300, sigma 5-10). Criterion: err@20 / const-velocity err@20 < 0.1 unless stated; "ok" is measured, "untested" is not. Numbers from sections 1-4 above and `scatter-ood.md`.
+
+| axis | zero-shot valid | breaks |
+|---|---|---|
+| particle count (64-unit box, h 0.5) | N <= ~1e3 cold collapse, ~5.6e3 warm (vfac 1) | cold ratio@20 .39 at 3e3, 1.7 at 1e4; at N = 1e5 headline is err@5 (ratio .93 cold, err@20 saturates at the box) |
+| cell size h (extent 64) | h = 0.5 only (G 128); h .7 tick-1 force err .17, h 1 .38 | h .25 25x worse, h .125 fails, h 1-2 poor |
+| extent at fixed h = 0.5 | any (zero-padded periphery; D sweep identical to 4 digits 64..512), >= ~48 | extent 32 clips the cluster |
+| scene width at fixed h | cluster sigma <= ~16 units (tick-1 force err .14 at sigma 16) | sigma 32 .57, sigma 64 wrong sign of the far field |
+| core density | sigma >= 5 (trained min), Plummer a >= 2 | sigma <= 2: 37x, Plummer a .25: 107x |
+| mass | equal-mass scale .1-1 (3x at 3), mass ratio <= 3:1, dominant body <= 3x | ratio >= 10:1 (5-50x), equal-mass scale >= 10, dominant >= 30 |
+| softening | eps = 0.5 only (sharp optimum; 2x off is 10x worse) | any other eps |
+| boundary | bodies inside +-32 | cluster offset > 16-24: coasting-level error |
+| dt | 0.25x-2x of 0.1 | 4x |
+| not failures | velocity incl. zero, c, impact parameter, precision (bf16 +2%) | |
+
+Fixes for each break are the per-fix runs in `scatter-review-4-6.md` (cell units + random h, large-N fine-tune, mass/eps/dense fine-tunes, far-field monopole deferred to the conservation branch).
